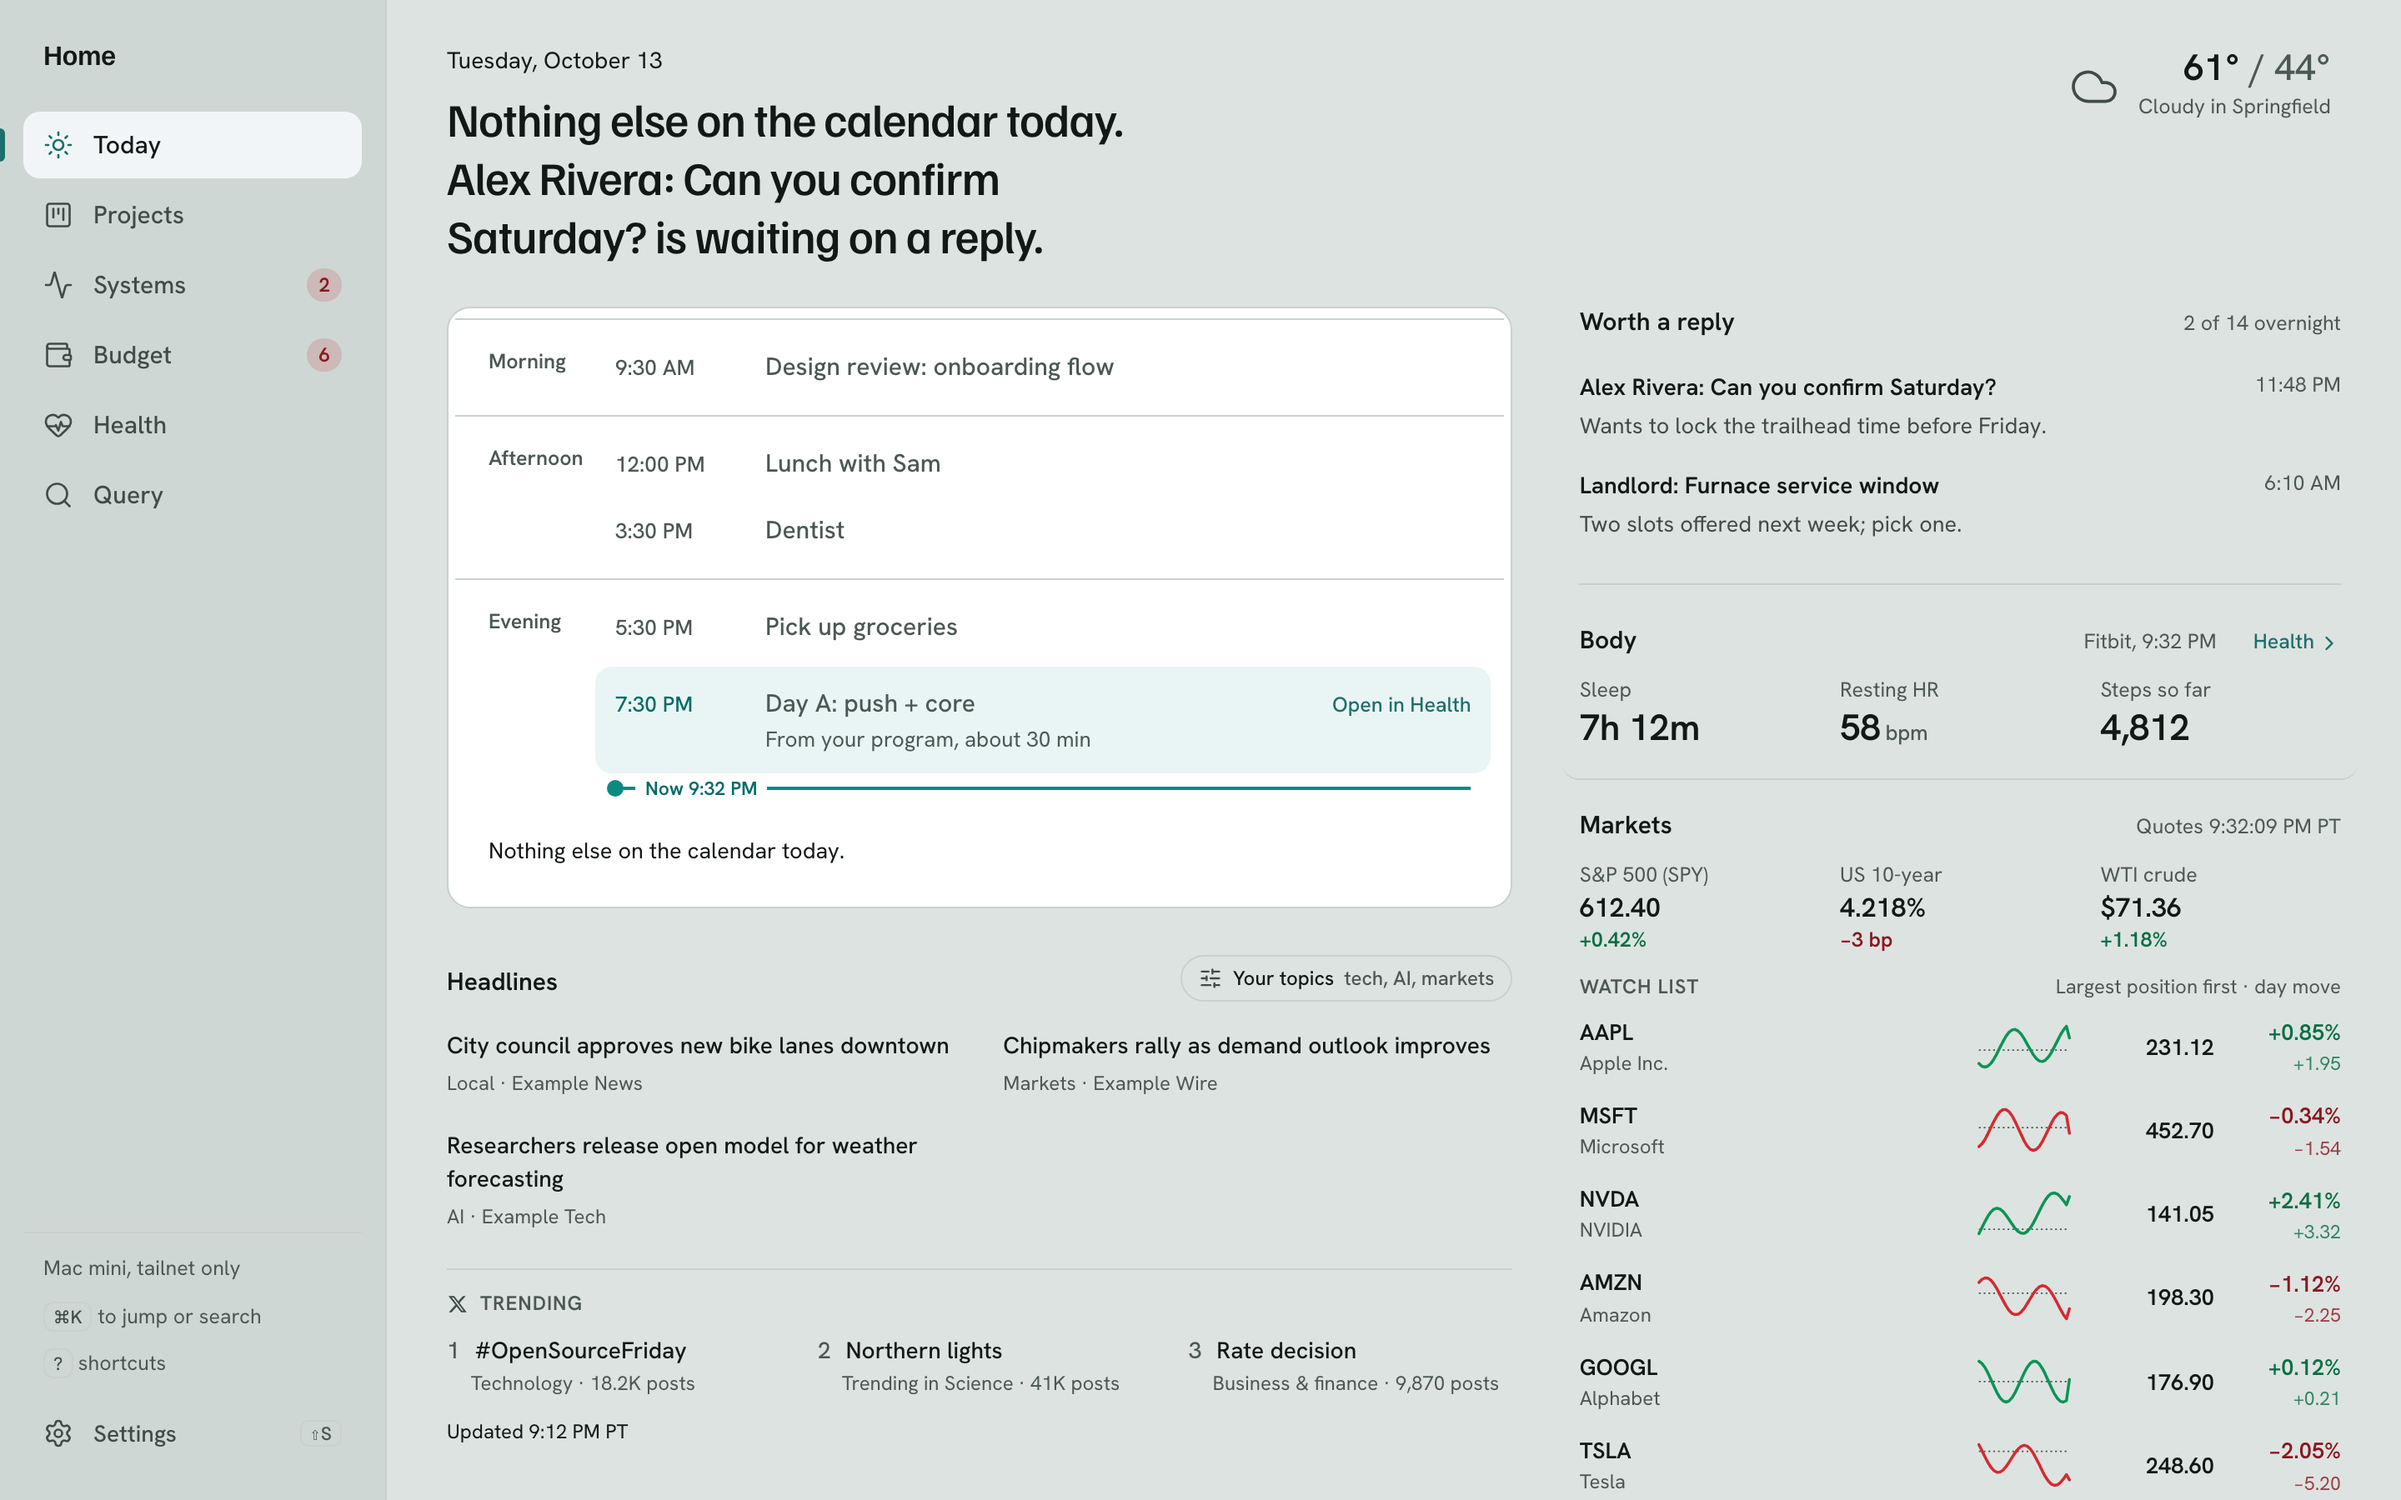
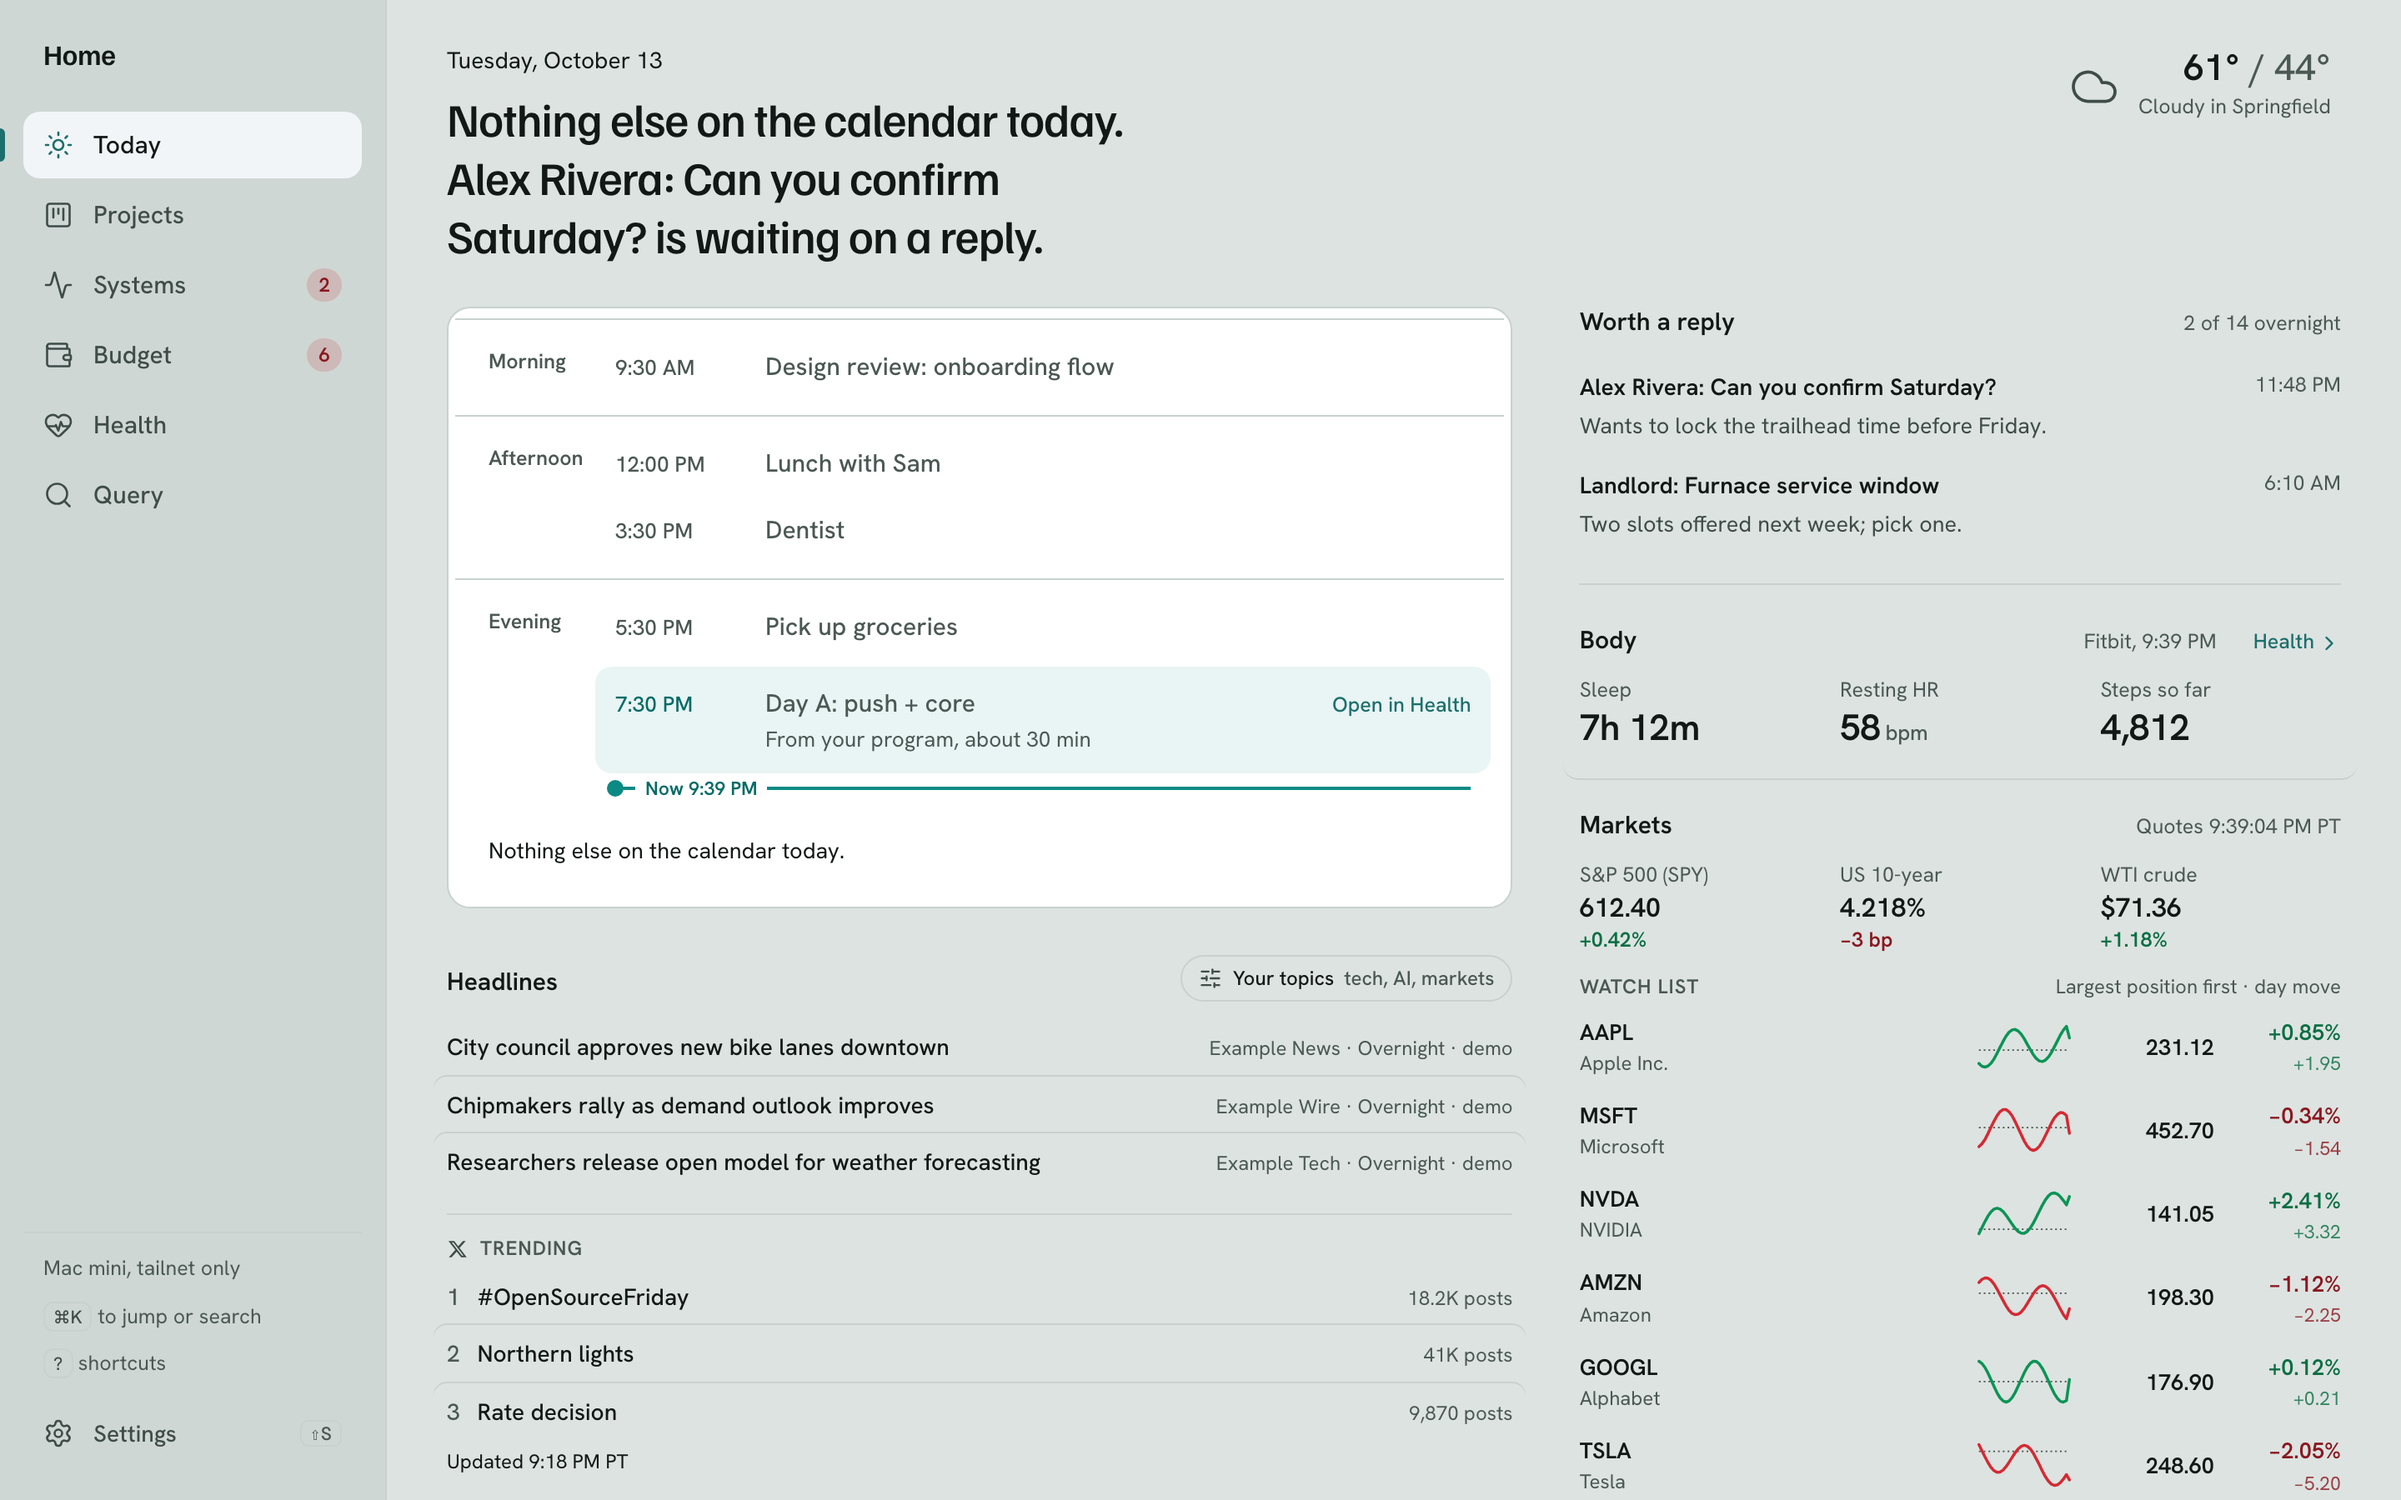
Today: stacked one-line Headlines and X Trending; README: What powers this + refreshed today.png

diff --git a/app/home-v2.css b/app/home-v2.css
@@ -69,11 +69,6 @@ html.light .hd,html.light .hd-tokens{
 .t2-sec{padding:0 0 18px;margin:0 0 18px;border-bottom:1px solid var(--border)}
 .t2-right>.t2-sec:last-child{border-bottom:0;margin-bottom:0}
 .t2-heads{margin-top:28px;border:0}
-.t2-hgrid{display:grid;grid-template-columns:1fr 1fr;gap:4px 28px}
-.t2-hl{display:block;padding:7px 0;text-decoration:none;color:inherit}
-.t2-hl b{display:block;font-weight:500;font-size:14px;line-height:1.4;color:var(--text)}
-.t2-hl:hover b{text-decoration:underline;text-underline-offset:3px;text-decoration-color:var(--border-strong)}
-.t2-hl span{font-size:12px;color:var(--text-3)}
 .t2-rp{display:grid;grid-template-columns:1fr auto;gap:2px 12px;padding:8px 0;text-decoration:none;color:inherit}
 .t2-rp b{font-weight:600;font-size:14px;color:var(--text)}.t2-rp .when{font-size:12.5px;color:var(--text-3)}
 .t2-rp p{grid-column:1/-1;margin:0;font-size:13.5px;color:var(--text-2)}
@@ -428,15 +423,7 @@ html.light .md pre .s{color:var(--ok-ink)}html.light .md pre .k{color:var(--viz-
 .t2-trends{margin-top:14px;padding-top:12px;border-top:1px solid var(--border)}
 .t2-trends h3{display:flex;align-items:center;gap:7px;margin:0 0 4px;font:600 12px var(--f-ui);letter-spacing:.04em;text-transform:uppercase;color:var(--text-3)}
 .t2-x{width:13px;height:13px;color:var(--text-2)}
-.t2-tr{list-style:none;margin:0;padding:0;display:grid;grid-template-columns:repeat(3,minmax(0,1fr));gap:4px 28px;counter-reset:tr}
-.t2-tr li{counter-increment:tr}
-.t2-tr a,.t2-tr div{display:block;padding:7px 0;color:inherit;text-decoration:none}
-.t2-tr b{display:block;font-weight:500;font-size:14px;line-height:1.4;color:var(--text);overflow-wrap:anywhere}
-.t2-tr b::before{content:counter(tr);display:inline-block;min-width:1.2em;color:var(--text-3);font-weight:500;font-variant-numeric:tabular-nums}
-.t2-tr a:hover b{text-decoration:underline;text-underline-offset:3px;text-decoration-color:var(--border-strong)}
-.t2-tr span{display:block;font-size:12px;color:var(--text-3);padding-left:1.2em}
 .t2-trmeta{margin:4px 0 0;font-size:12px;color:var(--text-3)}.t2-trmeta.stale{color:var(--warn-ink)}
-@media (max-width:640px){.t2-tr{grid-template-columns:1fr}}
 /* Due today + to-do rows */
 .hd .t2-due .sh a{margin-left:12px}
 .td-list{list-style:none;margin:2px 0 0;padding:0}
@@ -660,3 +647,15 @@ html.light .md pre .s{color:var(--ok-ink)}html.light .md pre .k{color:var(--viz-
 .t2-xh{display:inline-flex;align-items:center;gap:7px;color:inherit;text-decoration:none;border-radius:6px;margin:-2px -6px;padding:2px 6px;transition:color .12s,background-color .12s}
 .t2-xh:hover{color:var(--text);background:var(--h-surface-2)}
 .t2-xh:focus-visible{outline:2px solid var(--h-accent);outline-offset:1px}
+/* Stacked one-line lists: Headlines and X Trending */
+.t2-rows{list-style:none;margin:2px -8px 0;padding:0;counter-reset:tr}
+.t2-row{display:flex;align-items:baseline;gap:10px;min-width:0;padding:7px 8px;border-radius:8px;color:inherit;text-decoration:none;transition:background-color .12s}
+.t2-rows li+li .t2-row{box-shadow:0 -1px 0 var(--border)}
+.t2-row b{flex:1 1 auto;min-width:0;overflow:hidden;text-overflow:ellipsis;white-space:nowrap;font-weight:500;font-size:14px;line-height:1.45;color:var(--text)}
+.t2-row span{flex:0 1 auto;max-width:46%;min-width:0;overflow:hidden;text-overflow:ellipsis;white-space:nowrap;font-size:12px;color:var(--text-3)}
+a.t2-row:hover{background:var(--h-surface-2)}a.t2-row:hover b{text-decoration:underline;text-underline-offset:3px;text-decoration-color:var(--border-strong)}
+a.t2-row:hover+*,.t2-rows li:has(a.t2-row:hover)+li .t2-row{box-shadow:none}
+a.t2-row:focus-visible{outline:2px solid var(--h-accent);outline-offset:-2px}
+.t2-tr li{counter-increment:tr}
+.t2-tr b::before{content:counter(tr);display:inline-block;min-width:1.3em;color:var(--text-3);font-variant-numeric:tabular-nums}
+@media (max-width:640px){.t2-row span{max-width:40%}}

diff --git a/app/tabs/today/today.tsx b/app/tabs/today/today.tsx
@@ -122,11 +122,13 @@ export default function TodayV2({ data: tabData }: { data?: Partial<TodayData>; 
           <section className="t2-sec t2-heads" aria-labelledby="h-hl">
             <div className="sh"><h2 id="h-hl">Headlines</h2><TopicsControl topics={prefs.topics} onSave={(topics) => savePrefs({ topics })} /></div>
             {cfg.headlines ? (s.headlines?.items?.length ? (
-              <div className="t2-hgrid">
-                {s.headlines.items.slice(0, cfg.headlines).map((h, i) => (
-                  <a className="t2-hl" key={i} href={h.url} target="_blank" rel="noreferrer"><b>{h.title}</b><span>{h.label}</span></a>
-                ))}
-              </div>
+              <ul className="t2-rows">
+                {s.headlines.items.slice(0, cfg.headlines).map((h, i) => {
+                  const meta = [h.label?.split(' · ').at(-1), shortWhen(h.detail)].filter(Boolean).join(' · ');
+                  const full = [h.label, h.detail].filter(Boolean).join(' · ');
+                  return <li key={i}><a className="t2-row" href={h.url} target="_blank" rel="noreferrer" title={full ? `${h.title} — ${full}` : h.title}><b>{h.title}</b>{meta ? <span>{meta}</span> : null}</a></li>;
+                })}
+              </ul>
             ) : <p className="t2-empty">{s.headlines?.note || 'No headlines yet.'}</p>) : null}
             {cfg.trends ? <Trends t={trends} n={cfg.trends} /> : null}
           </section>
@@ -218,16 +220,27 @@ function FragmentWithNow({ show, rule, children }: { show: boolean; rule: ReactN
 
 
 
+/** "Overnight · Oct 13, 8:54 PM PT" → "8:54 PM" today, "Oct 12" otherwise. */
+function shortWhen(d?: string) {
+  if (!d) return '';
+  const m = d.match(/([A-Z][a-z]{2} \d{1,2}), (\d{1,2}:\d{2} [AP]M)/);
+  if (!m) return d;
+  const today = new Intl.DateTimeFormat('en-US', { month: 'short', day: 'numeric', timeZone: 'America/Los_Angeles' }).format(new Date());
+  return m[1] === today ? m[2] : m[1];
+}
+
 function Trends({ t, n }: { t: XTrends | null; n: number }) {
   const items = t?.items.slice(0, n) ?? [];
   return (
     <div className="t2-trends">
       <h3><a className="t2-xh" href="https://x.com/home" target="_blank" rel="noopener noreferrer" aria-label="X Trending, open your For You feed on X (new tab)" title="Open X (For You)"><svg viewBox="0 0 24 24" aria-hidden="true" className="t2-x"><path d="M17.8 3h3.1l-6.8 7.7L22 21h-6.2l-4.9-6.3L5.3 21H2.2l7.2-8.3L1.8 3h6.4l4.4 5.8L17.8 3Zm-1.1 16.2h1.7L7.3 4.7H5.5l11.2 14.5Z" fill="currentColor" /></svg>Trending</a></h3>
       {items.length ? (
-        <ol className="t2-tr">
+        <ol className="t2-rows t2-tr">
           {items.map((x, i) => {
-            const body = <><b>{x.title}</b><span>{[x.context, x.posts].filter(Boolean).join(' · ')}</span></>;
-            return <li key={i}>{x.url ? <a href={x.url} target="_blank" rel="noreferrer">{body}</a> : <div>{body}</div>}</li>;
+            const meta = x.posts || x.context || '';
+            const body = <><b>{x.title}</b>{meta ? <span>{meta}</span> : null}</>;
+            const tip = [x.title, x.context, x.posts].filter(Boolean).join(' — ');
+            return <li key={i}>{x.url ? <a className="t2-row" href={x.url} target="_blank" rel="noreferrer" title={tip}>{body}</a> : <div className="t2-row" title={tip}>{body}</div>}</li>;
           })}
         </ol>
       ) : (

diff --git a/README.md b/README.md
@@ -126,6 +126,43 @@ Process env:
 - **Other integrations:** `GROK_BIN`, `HOMEKIT_BIND_ADDRESS`, `HOMEKIT_RECEIVER_URL`
 - **App internals and demo:** `HD_DATA_DIR`, `HD_ENV_FILE`, `HD_LOAD_LOG`, `HD_SERVICES_FILE`, `HD_HEALTH_FEED`, `HD_QUERY_VAULTS`, `HD_SETTINGS_FILE`, `HD_DEMO`, `HD_DEMO_DIR`
 
+## What powers this
+
+| System | Role |
+|---|---|
+| [Grok Bot](https://x.ai/bot) | A small team of AI bots that keep the data fresh and the app moving: a fitness bot writes the day's workout, a news bot writes the X trends file, a finance bot keeps the ticker order current, and an engineering bot builds and ships the app itself. Bots only write files the dashboard reads; the dashboard never calls them. |
+| [Obsidian](https://obsidian.md) | Git-backed markdown vaults: notes, training plans and logs, the services table, and everything Query searches. |
+| [Vikunja](https://vikunja.io) | Self-hosted projects and kanban boards (read, plus moving cards between buckets). |
+| [Apple Reminders](https://support.apple.com/guide/reminders/welcome/mac) | Due-today to-dos, read and ticked off through a local CLI. |
+| [Tailscale Serve](https://tailscale.com/kb/1312/serve) | HTTPS on the tailnet only; nothing is exposed to the internet. |
+| [Actual Budget](https://actualbudget.org) | Self-hosted budgeting, read by a scheduled sync job. |
+| [Fitbit Web API](https://dev.fitbit.com/build/reference/web-api/) | A self-hosted sync exports sleep, heart rate and steps as JSON into the vault. |
+| [Yahoo Finance](https://finance.yahoo.com) | Day moves for the Markets row and watch list (chart quotes, cached 60 s server-side). |
+| [RSS](https://www.rssboard.org/rss-specification) | Headlines from a short list of feeds, filtered by your topics. |
+| [Open-Meteo](https://open-meteo.com) | Weather and forecast, no API key. |
+| [Google Calendar](https://developers.google.com/calendar) and [Gmail](https://developers.google.com/gmail/api) APIs | The day's timeline and replies worth sending (read-only OAuth). |
+| [Next.js](https://nextjs.org) | The app: React server components, route handlers, one Node process. |
+| [shadcn/ui](https://ui.shadcn.com) | UI primitives (dialogs, sheets, popovers, command palette). |
+| [Recharts](https://recharts.org) | Budget and health charts. |
+| [launchd](https://support.apple.com/guide/terminal/script-management-with-launchd-apdc6c1077b-5d5d-4d35-9c19-60f2397b2369/mac) on a [Mac mini](https://www.apple.com/mac-mini/) | Keeps the server and the sync jobs running, restarts on crash. |
+
+```mermaid
+flowchart LR
+  subgraph Sources
+    V[Obsidian vaults]
+    VK[Vikunja]
+    R[Apple Reminders]
+    A[Actual Budget]
+    F[Fitbit sync]
+    G[Google Calendar / Gmail]
+    W[Open-Meteo / RSS / Yahoo]
+  end
+  B[Grok Bot team] -- workouts, notes --> V
+  B -- X trends, ticker order --> J[(local JSON files)]
+  V & VK & R & A & F & G & W & J --> S[Next.js server<br/>launchd · Mac mini]
+  S -- Tailscale Serve<br/>tailnet only --> U[Browser / phone]
+```
+
 ## Hosting and privacy
 
 - **Built for a tailnet, not the internet.** The server listens on 127.0.0.1, checks `Host` and `Origin`, and refuses cross-site writes. Tailscale Serve terminates HTTPS. There is no login system, so do not port-forward it or enable Funnel.
